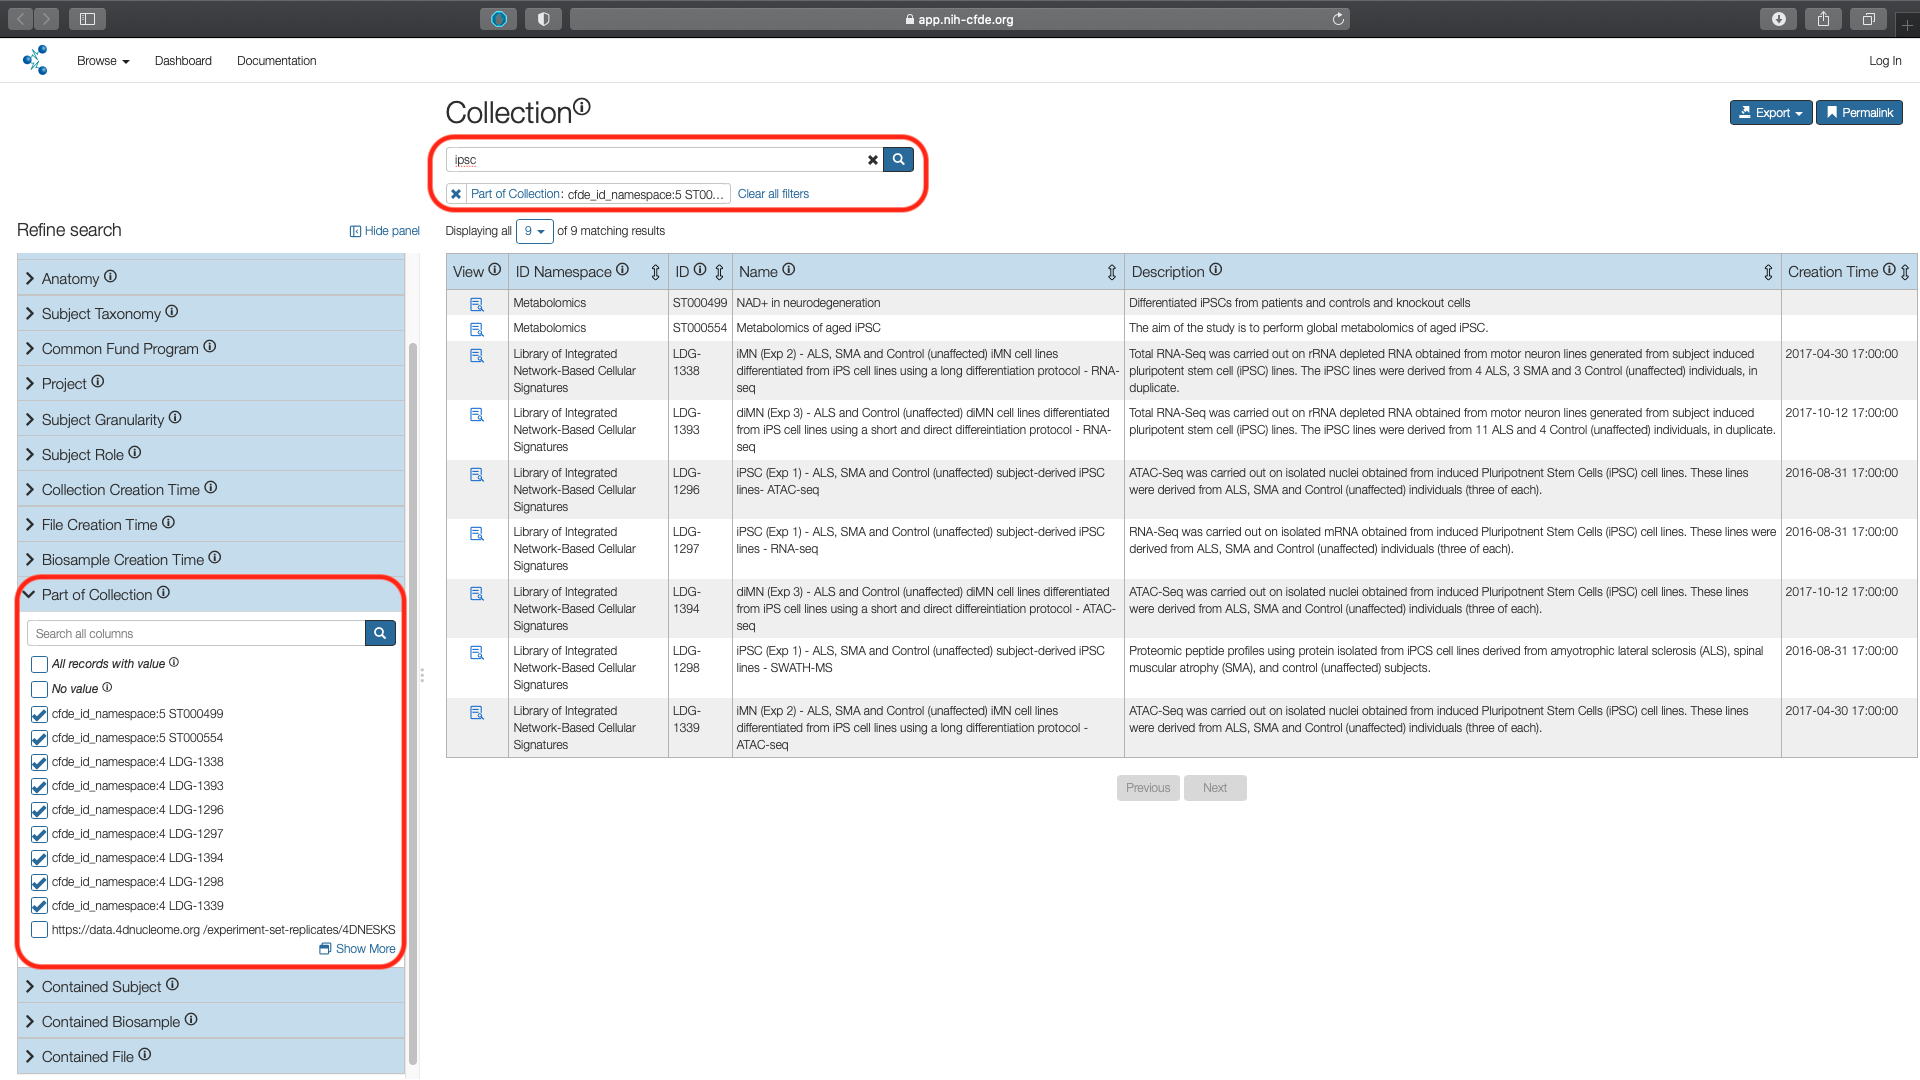
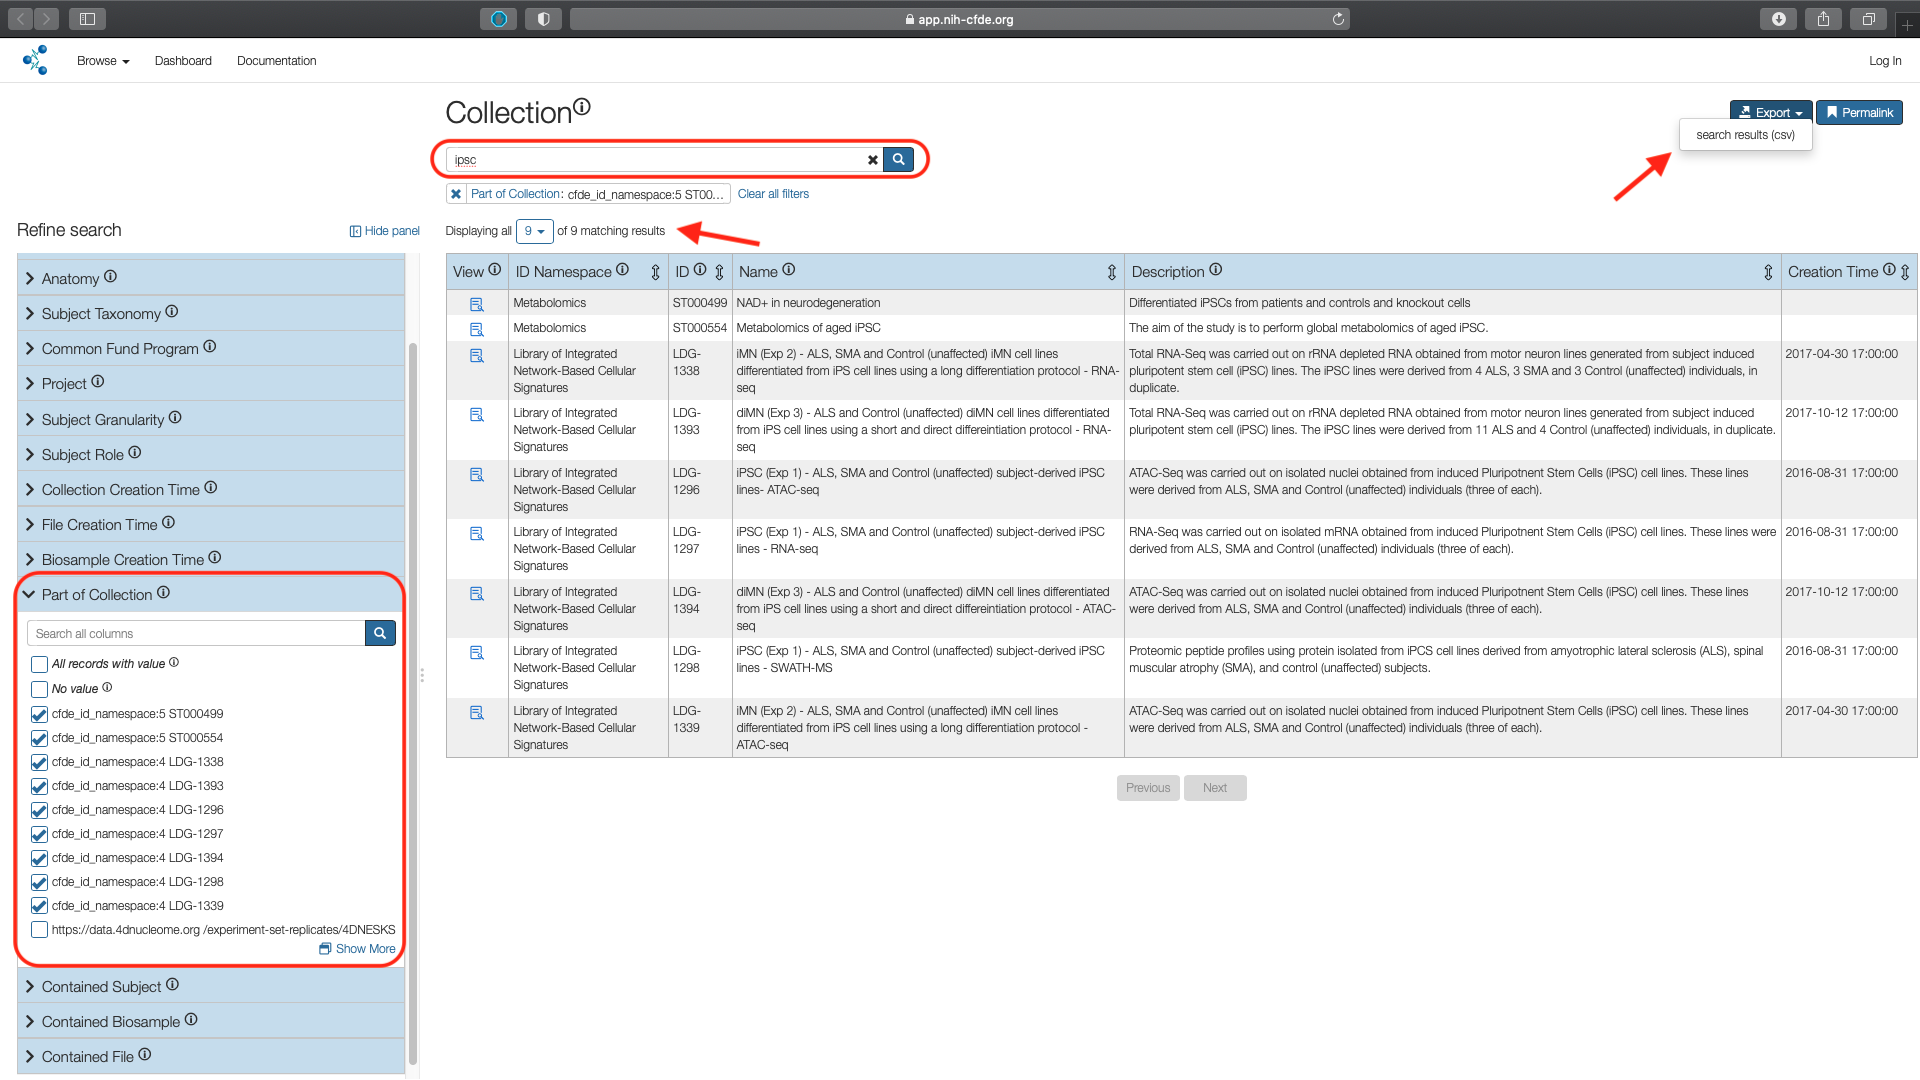
Updated movement disorder portal export tutorial with new figures

diff --git a/docs/CF-Tutorials/CFDE-Portal/movement-disorders-portal-export.md b/docs/CF-Tutorials/CFDE-Portal/movement-disorders-portal-export.md
@@ -5,23 +5,19 @@ title: Integrated Analysis of Movement-Related Disorders
 
 # Integrated Analysis of Movement-Related Disorders
 
-Movement-related disorders affect the neuromuscular system, disrupting the ability of the nervous and muscular systems to work together. There are several known movement-related disorders, including Amyotrophic Lateral Sclerosis (ALS) or Lou Gehrig’s disease, Parkinson's disease, Spinal Muscular Atrophy (SMA) and Multiple Sclerosis (MS). 
+Movement-related disorders affect the neuromuscular system, disrupting the ability of the nervous and muscular systems to work together. There are several known movement-related disorders, including Amyotrophic Lateral Sclerosis (ALS) or Lou Gehrig’s disease, Parkinson's disease, Spinal Muscular Atrophy (SMA) and Multiple Sclerosis (MS).
 
 - Amyotrophic Lateral Sclerosis (ALS): is a motor neuron disease which involves the loss of neurons in the brain and spinal cord that control voluntary movement of the muscles. ALS is not heritable.
 
-- Spinal Muscular Atrophy (SMA): is a heritable motor neuron disease with known genetic causes. 
+- Spinal Muscular Atrophy (SMA): is a heritable motor neuron disease with known genetic causes.
 
-- Parkinson's disease: is a degenerative condition which results from the death of dopamine producing neurons. 
+- Parkinson's disease: is a degenerative condition which results from the death of dopamine producing neurons.
 
-- Multiple Sclerosis (MS): is an autoimmune disorder in which the protective sheath covering some neurons (called myelin) is damaged. Neurons with damaged myelin disrupt electrical communications that are necessary for normal movement and coordination. 
+- Multiple Sclerosis (MS): is an autoimmune disorder in which myelin, the protective sheath covering the neurons, is damaged disrupting communications between brain and rest of the body including movement.
 
-A few common features of these neuromuscular disorders are that they all involve brain neurons, they share many symptoms, and they are all difficult to diagnose in their early stages. Identifying key genomic, genetic, transcriptomic or proteomic differences between these conditions may help identify underlying disease mechanisms or biomarkers to aide in early diagnosis and/or targeted drug development. 
+A few common features of these neuromuscular disorders are that they all involve the brain, share many symptoms, and are all difficult to diagnose in their early stages. Identifying key genomic, transcriptomic and/or proteomic differences between these conditions may help elucidate underlying disease mechanisms along with potential biomarkers that may aide in early diagnosis and/or targeted drug development.
 
 In this use case, we demonstrate the utility of the [CFDE portal](https://app.nih-cfde.org) in identifying and extracting suitable datasets of human origin spanning the spectrum of movement-related disorders from across the CF programs.
-
-A video walk through demonstrating the cohort selection for Movement-Related Disorders.
-
-<iframe id="kaltura_player" src="https://cdnapisec.kaltura.com/p/1770401/sp/177040100/embedIframeJs/uiconf_id/29032722/partner_id/1770401?iframeembed=true&playerId=kaltura_player&entry_id=1_b89l89ba&flashvars[mediaProtocol]=rtmp&amp;flashvars[streamerType]=rtmp&amp;flashvars[streamerUrl]=rtmp://www.kaltura.com:1935&amp;flashvars[rtmpFlavors]=1&amp;flashvars[localizationCode]=en&amp;flashvars[leadWithHTML5]=true&amp;flashvars[sideBarContainer.plugin]=true&amp;flashvars[sideBarContainer.position]=left&amp;flashvars[sideBarContainer.clickToClose]=true&amp;flashvars[chapters.plugin]=true&amp;flashvars[chapters.layout]=vertical&amp;flashvars[chapters.thumbnailRotator]=false&amp;flashvars[streamSelector.plugin]=true&amp;flashvars[EmbedPlayer.SpinnerTarget]=videoHolder&amp;flashvars[dualScreen.plugin]=true&amp;flashvars[Kaltura.addCrossoriginToIframe]=true&amp;&wid=1_j485yhqf" width="608" height="402" allowfullscreen webkitallowfullscreen mozAllowFullScreen allow="autoplay *; fullscreen *; encrypted-media *" sandbox="allow-forms allow-same-origin allow-scripts allow-top-navigation allow-pointer-lock allow-popups allow-modals allow-orientation-lock allow-popups-to-escape-sandbox allow-presentation allow-top-navigation-by-user-activation" frameborder="0" title="Kaltura Player"></iframe>
 
 ## Step 1: Access the Collection information
 
@@ -37,7 +33,7 @@ The default page shows a total of 2,990 records.
 
 ## Step 2: Search all columns: IPSC
 
-Use the **IPSC** (induced pluripotent stem cell) keyword in the Search all columns box.
+Use the "Search all columns" box to identify datasets using **IPSC** (induced pluripotent stem cell) lines.
 
 !!! note "Case-insensitive"
     The search is case-insensitive. One will obtain the same results for "IPSC" or "ipsc" or any combination of the two.
@@ -55,24 +51,33 @@ LDG-1338, LDG-1339].
 
 This results in 9 matching records from Metabolomics and Library of Integrated Network-Based Cellular Signatures (LINCS). The subset cohort is exported to a `csv` file using the "Export" option.
 
+!!! note "Download to local machine"
+    The exported `csv` file can be accessed from downloads folder associated with the web browser in the user's local machine. Default is generally the `Downloads` folder.
+
 ## Step 4: Search all columns: Stem Cell
 
-Use "Clear all filters" to remove the previous selection and use **stem cell neu** keyword. Use the "Part of Collection" filter listed under the Refine Search panel to select the desired datasets ["ID" values : ST000688, ST000768].
+The associated datasets use either IPSC or neural stem cell in their experimental design. In the second part of the cohort building we will identify datasets that use neural stem cells as the experimental sample.
+
+Use "Clear all filters" to remove the previous selection and type **stem cell neu** keyword in the "Search all columns" box. Use the "Part of Collection" filter listed under the Refine Search panel to select the desired datasets ["ID" values : ST000688, ST000768].
 
 ![Stem Cell final datasets](../../images/Neurodegeneration-stem-cell.png "Stem Cell final datasets")
 
 !!! note "Duplicated studies"
     The two LINCS datasets (LDG-1338, LDG-1393) in the subset are not selected as they are already included in the previous filtered list.
 
-This results in two records and are exported to a `csv` file using the "Export" option.
+This results in two records and are exported to a second `csv` file using the "Export" option.
 
-## Step 5: Merge Cohort
+## Step 5: Combine Cohorts
 
-The two exported `csv` files are merged to obtain the final dataset.
+The two CFDE portal exported `csv` files are combined into a single `csv` file in the user's local machine to obtain the final dataset. The exported `csv` file has twelve columns.
 
 ![CFDE portal exported file](../../images/CFDE-portal-movement-disorder-export.png "CFDE portal exported file")   
 
-The exported `csv` file has twelve columns. The relevant individual study details are in the `id`, `name` and `description` columns. The `persistant_id` column lists the permanent URL which can be used to access each of the studies in Metabolomics and LINCS data portals respectively.
+The relevant individual study details are in the `id`, `name` and `description` columns. The `persistant_id` column lists the permanent URL which can be used to access each of the studies in [Metabolomics]((https://www.metabolomicsworkbench.org) and [LINCS]((http://lincsportal.ccs.miami.edu/datasets/) data portals respectively.
+
+A video walk through demonstrating the cohort selection for Movement-Related Disorders.
+
+<iframe id="kaltura_player" src="https://cdnapisec.kaltura.com/p/1770401/sp/177040100/embedIframeJs/uiconf_id/29032722/partner_id/1770401?iframeembed=true&playerId=kaltura_player&entry_id=1_b89l89ba&flashvars[mediaProtocol]=rtmp&amp;flashvars[streamerType]=rtmp&amp;flashvars[streamerUrl]=rtmp://www.kaltura.com:1935&amp;flashvars[rtmpFlavors]=1&amp;flashvars[localizationCode]=en&amp;flashvars[leadWithHTML5]=true&amp;flashvars[sideBarContainer.plugin]=true&amp;flashvars[sideBarContainer.position]=left&amp;flashvars[sideBarContainer.clickToClose]=true&amp;flashvars[chapters.plugin]=true&amp;flashvars[chapters.layout]=vertical&amp;flashvars[chapters.thumbnailRotator]=false&amp;flashvars[streamSelector.plugin]=true&amp;flashvars[EmbedPlayer.SpinnerTarget]=videoHolder&amp;flashvars[dualScreen.plugin]=true&amp;flashvars[Kaltura.addCrossoriginToIframe]=true&amp;&wid=1_j485yhqf" width="608" height="402" allowfullscreen webkitallowfullscreen mozAllowFullScreen allow="autoplay *; fullscreen *; encrypted-media *" sandbox="allow-forms allow-same-origin allow-scripts allow-top-navigation allow-pointer-lock allow-popups allow-modals allow-orientation-lock allow-popups-to-escape-sandbox allow-presentation allow-top-navigation-by-user-activation" frameborder="0" title="Kaltura Player"></iframe>
 
 ## Step 6: Metabolomics WorkBench
 

diff --git a/docs/CF-Tutorials/CFDE-Portal/movement-disorders-data-access.md b/docs/CF-Tutorials/CFDE-Portal/movement-disorders-data-access.md
@@ -1,0 +1,28 @@
+---
+layout: page
+title: Integrated Analysis of Movement-Related Disorders
+---
+
+
+Using the details in the [CFDE portal exported `csv` manifest](./movement-disorders-portal-export.md), the associated data files can be accessed from data portals of the individual Common Fund programs, [Metabolomics]((https://www.metabolomicsworkbench.org) and [LINCS]((http://lincsportal.ccs.miami.edu/datasets/) data portals respectively.
+
+
+## Metabolomics WorkBench
+
+The details of each Metabolomics study can be viewed, analyzed and downloaded using the [Metabolomics WorkBench](https://www.metabolomicsworkbench.org). The `persistant_id` for each study is associated with a summary page which lists all the available analyzed and raw data, metadata associated with study design, experimental conditions, sample preparation details and analysis techniques along with   contributor information and creation date.
+
+![Metabolomics Workbench summary](../../images/Metabolomics-workbench-summary.png "Metabolomics Workbench summary")
+
+The associated metadata for the different fields can be listed as tabs. Study data can be downloaded as `zip` files. Selecting the `Perform statistical analysis` lists multiple options for statistical tests, clustering, pathway mapping and visualization that can be run on the study data.
+
+![Metabolomics statistical tests](../../images/Metabolomics-statistical-test.png "Metabolomics statistical tests")
+
+## LINCS Data Portal
+
+The `persistant_id` for each LINCS dataset is linked to the study page in the [LINCS data portal](http://lincsportal.ccs.miami.edu/datasets/) which list the Description, Metadata and Download tabs. The associated metadata and analyzed data are available for direct download.
+
+![LINCS data portal](../../images/LINCS-data-portal.png "LINCS data portal")
+
+The "Data Source" lists the link to the dbGaP study which all relevant study description, sequencing details, associated published literature along with information to apply for access to the controlled experimental data.
+
+![LINCS data source](../../images/dbGaP-data-source.png "LINCS data source")
